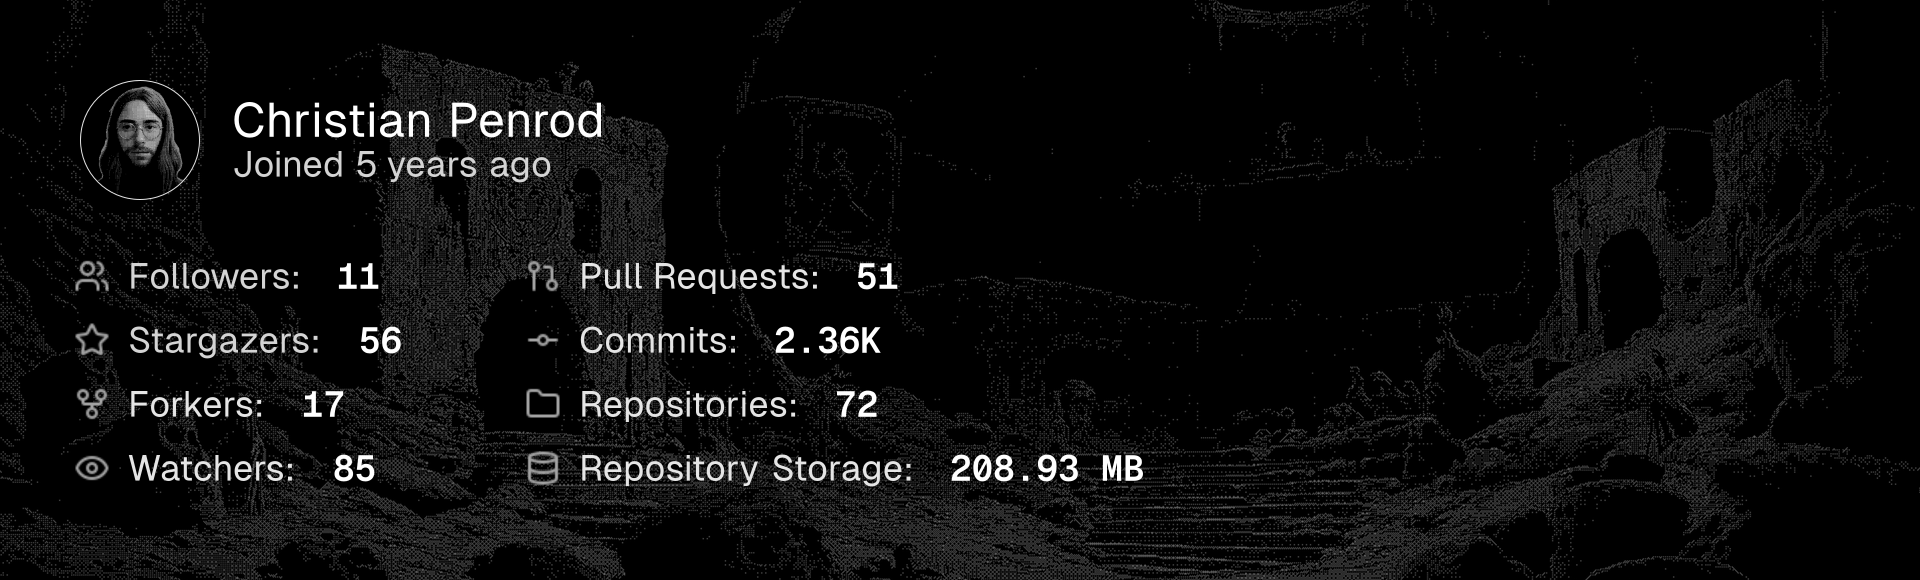
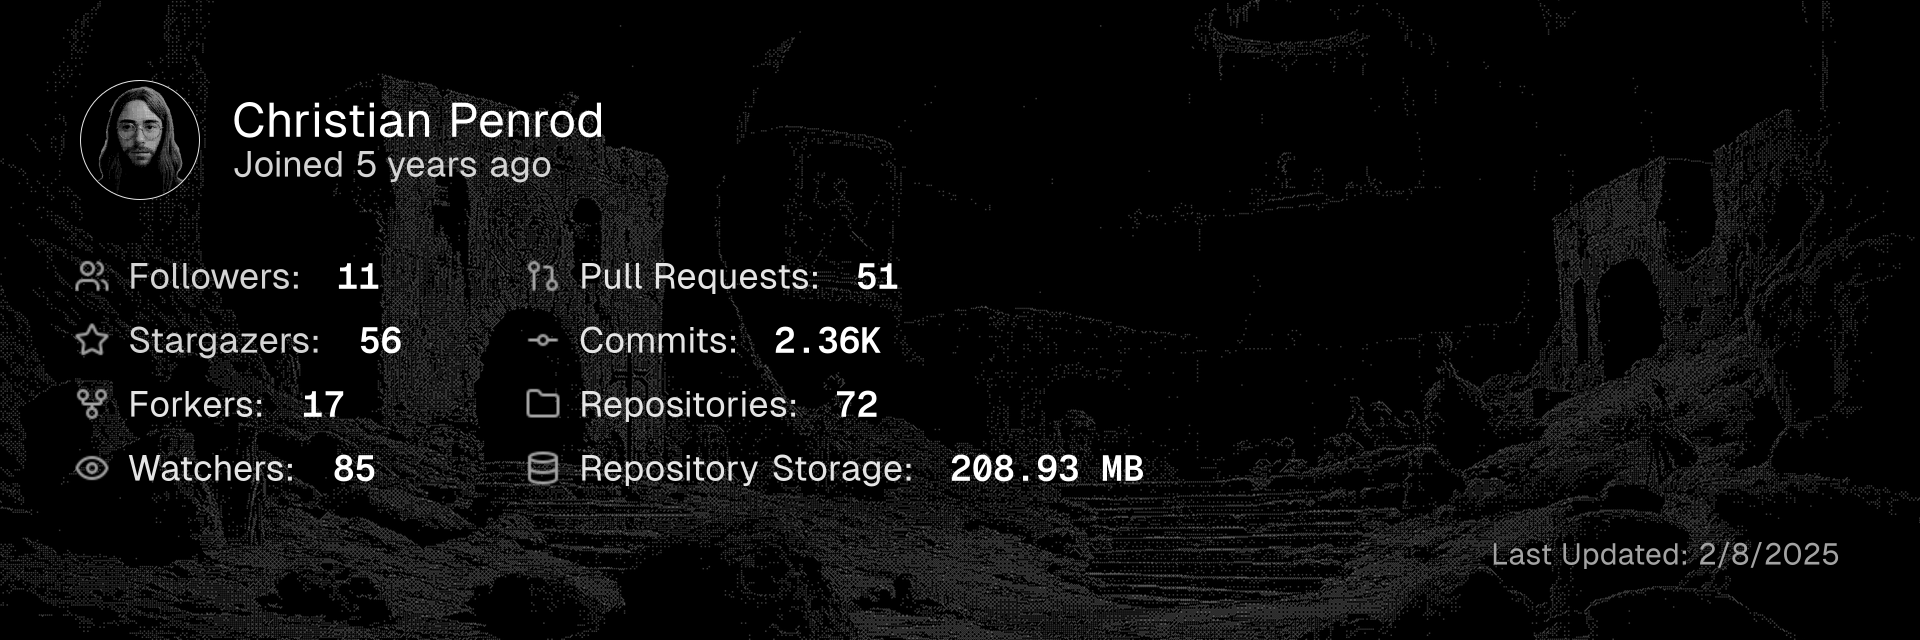
✨ Statistics last updated

diff --git a/src/stats.ts b/src/stats.ts
@@ -15,7 +15,7 @@ export default async function () {
           <span class="text-neutral-300">Joined ${stats.registration}</span>
         </div>
       </div>
-      <div class="flex">
+      <div class="flex mb-6">
         <div class="flex flex-col mr-32">
           <div class="flex items-center mb-6">
             <span class="text-neutral-400" style="transform:scale(1.5)">${icons.Users}</span>
@@ -61,12 +61,13 @@ export default async function () {
           </div>
         </div>
       </div>
+      <em class="text-neutral-400 text-3xl ml-auto">Last Updated: ${new Date().toLocaleDateString('en-US')}</em>
     </div>
   `;
 
   await createImage(template, {
     width: 1920,
-    height: 580,
+    height: 640,
     backgroundImage: 'statistics-background',
     filename: 'statistics',
   });

diff --git a/README.md b/README.md
@@ -1,8 +1,8 @@
 
 <picture>
-  <source media="(prefers-color-scheme: dark)" srcset="assets/banner.dark.png?v=0c890c32-1bec-478e-b38e-c1205780acd4" />
-  <source media="(prefers-color-scheme: light)" srcset="assets/banner.light.png?v=0c890c32-1bec-478e-b38e-c1205780acd4" />
-  <img src="assets/banner.dark.png?v=0c890c32-1bec-478e-b38e-c1205780acd4" alt="Banner" />
+  <source media="(prefers-color-scheme: dark)" srcset="assets/banner.dark.png?v=74052994-ae30-4f44-a5ce-65f88df4ef0c" />
+  <source media="(prefers-color-scheme: light)" srcset="assets/banner.light.png?v=74052994-ae30-4f44-a5ce-65f88df4ef0c" />
+  <img src="assets/banner.dark.png?v=74052994-ae30-4f44-a5ce-65f88df4ef0c" alt="Banner" />
 </picture>
 <br />
 <br />
@@ -10,16 +10,16 @@
 <h2>GITHUB STATISTICS</h2>
 <p>I work on random side projects and open source software in my free time. Below are some statistics around that.</p>
 <picture>
-  <source media="(min-width: 601px)" srcset="assets/statistics.png?v=0c890c32-1bec-478e-b38e-c1205780acd4" />
-  <source media="(max-width: 600px)" srcset="assets/statistics.png?v=0c890c32-1bec-478e-b38e-c1205780acd4" />
-  <img src="assets/statistics.png?v=0c890c32-1bec-478e-b38e-c1205780acd4" alt="Github Statistics" />
+  <source media="(min-width: 601px)" srcset="assets/statistics.png?v=74052994-ae30-4f44-a5ce-65f88df4ef0c" />
+  <source media="(max-width: 600px)" srcset="assets/statistics.png?v=74052994-ae30-4f44-a5ce-65f88df4ef0c" />
+  <img src="assets/statistics.png?v=74052994-ae30-4f44-a5ce-65f88df4ef0c" alt="Github Statistics" />
 </picture>
 <br />
 <br />
 <br />
 <h2>Recently Published</h2>
 <p>I write about web development and developer experience tooling. Below are some of the most recent articles published.</p>
-<a href="https://christianpenrod.com/blog/full-text-search-with-astro-db"><picture><source media="(min-width: 601px)" srcset="https://christianpenrod.com/blog/full-text-search-with-astro-db.png?v=0c890c32-1bec-478e-b38e-c1205780acd4" width="48%" /><source media="(max-width: 600px)" srcset="https://christianpenrod.com/blog/full-text-search-with-astro-db.png?v=0c890c32-1bec-478e-b38e-c1205780acd4" width="100%" /><img src="assets/banner.dark.png?v=0c890c32-1bec-478e-b38e-c1205780acd4" alt="Full-Text Search with Astro DB" width="100%" /></picture></a>
-<a href="https://christianpenrod.com/blog/summarize-blog-posts-with-typescript-and-gpt"><picture><source media="(min-width: 601px)" srcset="https://christianpenrod.com/blog/summarize-blog-posts-with-typescript-and-gpt.png?v=0c890c32-1bec-478e-b38e-c1205780acd4" width="48%" /><source media="(max-width: 600px)" srcset="https://christianpenrod.com/blog/summarize-blog-posts-with-typescript-and-gpt.png?v=0c890c32-1bec-478e-b38e-c1205780acd4" width="100%" /><img src="assets/banner.dark.png?v=0c890c32-1bec-478e-b38e-c1205780acd4" alt="Summarize Blog Posts with TypeScript and GPT" width="100%" /></picture></a>
-<a href="https://christianpenrod.com/blog/astro-shiki-syntax-highlighting-with-css-variables"><picture><source media="(min-width: 601px)" srcset="https://christianpenrod.com/blog/astro-shiki-syntax-highlighting-with-css-variables.png?v=0c890c32-1bec-478e-b38e-c1205780acd4" width="48%" /><source media="(max-width: 600px)" srcset="https://christianpenrod.com/blog/astro-shiki-syntax-highlighting-with-css-variables.png?v=0c890c32-1bec-478e-b38e-c1205780acd4" width="100%" /><img src="assets/banner.dark.png?v=0c890c32-1bec-478e-b38e-c1205780acd4" alt="Astro Shiki Syntax Highlighting with CSS Variables" width="100%" /></picture></a>
-<a href="https://christianpenrod.com/blog/tailwindcss-responsive-design-without-breakpoints"><picture><source media="(min-width: 601px)" srcset="https://christianpenrod.com/blog/tailwindcss-responsive-design-without-breakpoints.png?v=0c890c32-1bec-478e-b38e-c1205780acd4" width="48%" /><source media="(max-width: 600px)" srcset="https://christianpenrod.com/blog/tailwindcss-responsive-design-without-breakpoints.png?v=0c890c32-1bec-478e-b38e-c1205780acd4" width="100%" /><img src="assets/banner.dark.png?v=0c890c32-1bec-478e-b38e-c1205780acd4" alt="Tailwind CSS Responsive Design Without Breakpoints" width="100%" /></picture></a>
+<a href="https://christianpenrod.com/blog/full-text-search-with-astro-db"><picture><source media="(min-width: 601px)" srcset="https://christianpenrod.com/blog/full-text-search-with-astro-db.png?v=74052994-ae30-4f44-a5ce-65f88df4ef0c" width="48%" /><source media="(max-width: 600px)" srcset="https://christianpenrod.com/blog/full-text-search-with-astro-db.png?v=74052994-ae30-4f44-a5ce-65f88df4ef0c" width="100%" /><img src="assets/banner.dark.png?v=74052994-ae30-4f44-a5ce-65f88df4ef0c" alt="Full-Text Search with Astro DB" width="100%" /></picture></a>
+<a href="https://christianpenrod.com/blog/summarize-blog-posts-with-typescript-and-gpt"><picture><source media="(min-width: 601px)" srcset="https://christianpenrod.com/blog/summarize-blog-posts-with-typescript-and-gpt.png?v=74052994-ae30-4f44-a5ce-65f88df4ef0c" width="48%" /><source media="(max-width: 600px)" srcset="https://christianpenrod.com/blog/summarize-blog-posts-with-typescript-and-gpt.png?v=74052994-ae30-4f44-a5ce-65f88df4ef0c" width="100%" /><img src="assets/banner.dark.png?v=74052994-ae30-4f44-a5ce-65f88df4ef0c" alt="Summarize Blog Posts with TypeScript and GPT" width="100%" /></picture></a>
+<a href="https://christianpenrod.com/blog/astro-shiki-syntax-highlighting-with-css-variables"><picture><source media="(min-width: 601px)" srcset="https://christianpenrod.com/blog/astro-shiki-syntax-highlighting-with-css-variables.png?v=74052994-ae30-4f44-a5ce-65f88df4ef0c" width="48%" /><source media="(max-width: 600px)" srcset="https://christianpenrod.com/blog/astro-shiki-syntax-highlighting-with-css-variables.png?v=74052994-ae30-4f44-a5ce-65f88df4ef0c" width="100%" /><img src="assets/banner.dark.png?v=74052994-ae30-4f44-a5ce-65f88df4ef0c" alt="Astro Shiki Syntax Highlighting with CSS Variables" width="100%" /></picture></a>
+<a href="https://christianpenrod.com/blog/tailwindcss-responsive-design-without-breakpoints"><picture><source media="(min-width: 601px)" srcset="https://christianpenrod.com/blog/tailwindcss-responsive-design-without-breakpoints.png?v=74052994-ae30-4f44-a5ce-65f88df4ef0c" width="48%" /><source media="(max-width: 600px)" srcset="https://christianpenrod.com/blog/tailwindcss-responsive-design-without-breakpoints.png?v=74052994-ae30-4f44-a5ce-65f88df4ef0c" width="100%" /><img src="assets/banner.dark.png?v=74052994-ae30-4f44-a5ce-65f88df4ef0c" alt="Tailwind CSS Responsive Design Without Breakpoints" width="100%" /></picture></a>
